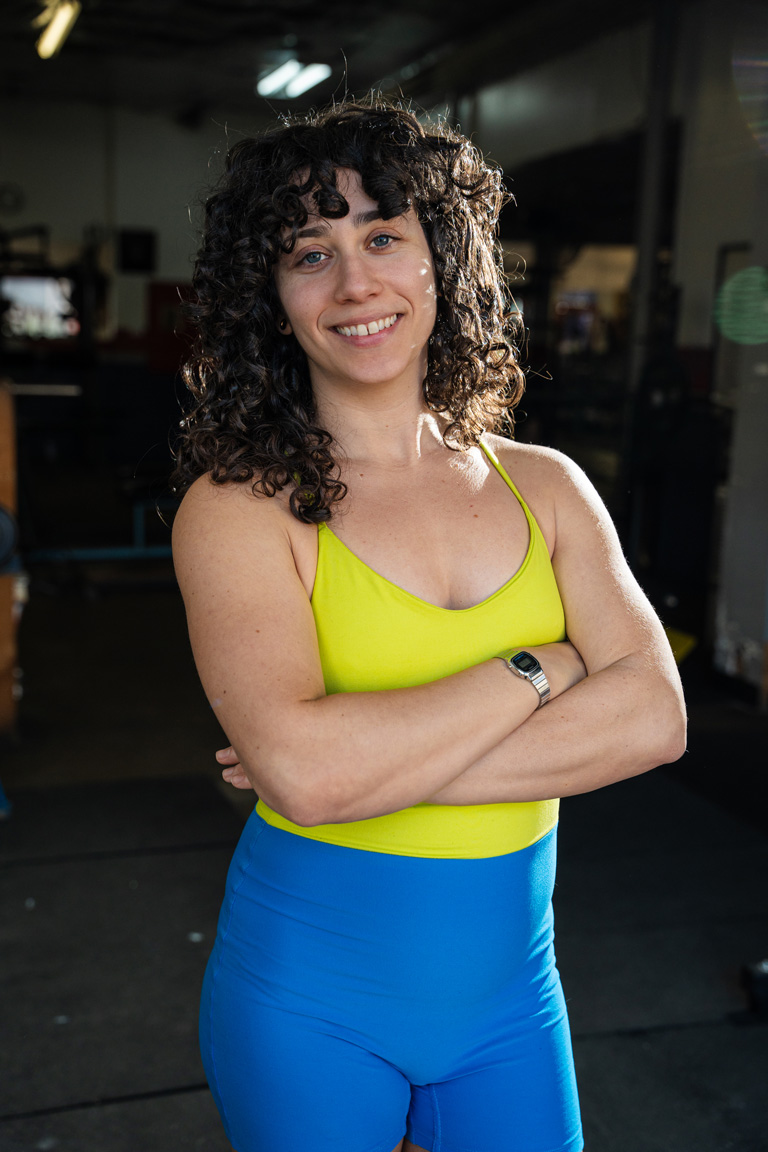
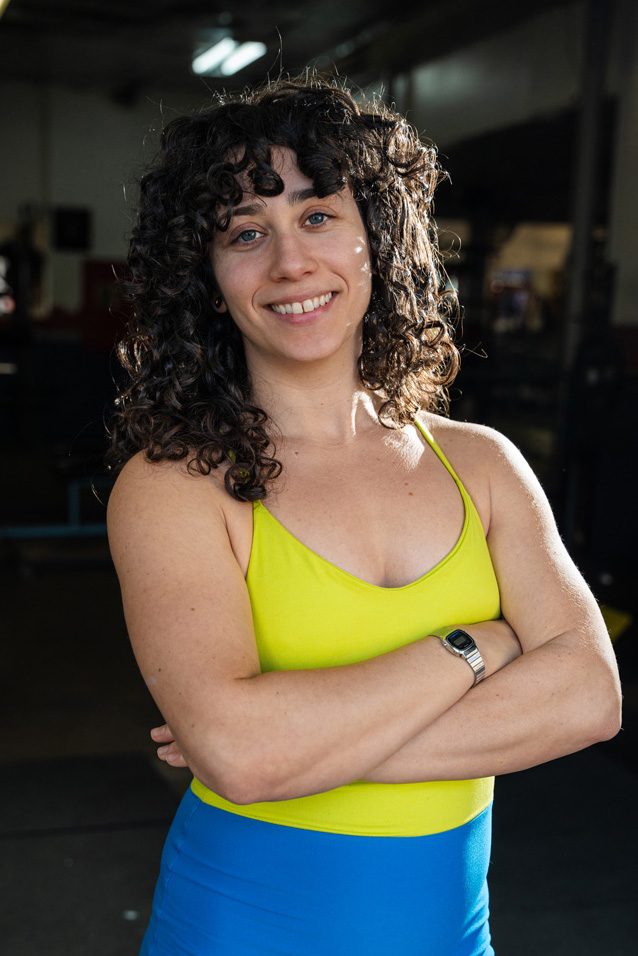
some changes

diff --git a/bigal/src/components/Home.tsx b/bigal/src/components/Home.tsx
@@ -1,16 +1,26 @@
 import { images } from "../assets/optimized_photos";
 import { Button } from "./Button";
-import { Header } from "./Header";
+import { Image } from "./Image";
 
 export const Home = () => {
   return (
-    <main>
-      <Header
-        src1600={images.masonsquat_768}
-        src1200={images.masonsquat_1200}
-        src768={images.masonsquat_768}
-        title="Big Al Strength & Conditioning"
-      />
+    <main className="flex flex-col">
+
+      <div className="flex flex-col justify-center items-center">
+        <h1 className="text-3xl md:text-6xl text-center m-4 mb-6">
+          Big Al Strength & Conditioning
+        </h1>
+        <div className="md:h-96">
+          <Image
+            src1600={images.headshot2_1000}
+            src1200={images.headshot2_1000}
+            src768={images.headshot2_768}
+            className="h-full w-full object-cover"
+            alt="Headshot of Alex"
+          />
+        </div>
+      </div>
+
       <div className="m-4 gap-4 flex flex-col items-center">
         <p>
           are you ready to take your fitness to the next level with in-person
@@ -20,9 +30,10 @@ export const Home = () => {
           are you looking for a way to make working out a part of your
           lifestyle?
         </p>
-
-        <Button />
       </div>
+
+      <Button />
+
     </main>
   );
 };

diff --git a/bigal/src/components/Image.tsx b/bigal/src/components/Image.tsx
@@ -3,14 +3,15 @@ interface ImageProps {
   src1200: string;
   src768: string;
   alt?: string;
+  className?: string;
 }
-export const Image = ({ src1600, src1200, src768, alt = "" }: ImageProps) => {
+export const Image = ({ src1600, src1200, src768, alt = "", className }: ImageProps) => {
   return (
     <picture >
       <source media="(min-width:1600px)" srcSet={src1600} />
       <source media="(min-width:1200px)" srcSet={src1200} />
       <source media="(min-width:768px)" srcSet={src768} />
-     <img className="border" src={new URL(`${src768}`, import.meta.url).href} alt={alt} />
+     <img className={`border ${className || ''}`}  src={new URL(`${src768}`, import.meta.url).href} alt={alt} />
     </picture>
   )
 }

diff --git a/bigal/src/components/Header.tsx b/bigal/src/components/Header.tsx
@@ -12,7 +12,7 @@ export const Header = ({ src1600, src1200, src768, title }: HeaderProps) => {
     <div className="flex flex-col justify-center items-center">
       <h1 className="text-3xl md:text-6xl text-center m-4 mb-6">{title}</h1>
       <div className=" w-full md:max-w-5xl">
-        <Image src1600={`images.${src1600}`} src1200={src1200} src768={src768} />
+        <Image src1600={src1600} src1200={src1200} src768={src768} />
       </div>
     </div>
   );

diff --git a/bigal/src/components/Blog.tsx b/bigal/src/components/Blog.tsx
@@ -1,3 +1,15 @@
+import { Header } from "./Header";
+import { images } from "../assets/optimized_photos";
+
 export const Blog = () => {
-  return <main>blog</main>;
+  return (
+    <main>
+      <Header
+        src1600={images.masonsquat_1600}
+        src1200={images.masonsquat_1200}
+        src768={images.masonsquat_768}
+        title="Blog"
+      />
+    </main>
+  );
 };

diff --git a/bigal/src/components/Button.tsx b/bigal/src/components/Button.tsx
@@ -2,7 +2,7 @@ import { Link } from 'react-router-dom';
 
 export const Button = () => {
   return (
-      <div className="flex justify-center mt-6 md:m-4">
+      <div className="flex justify-center m-4 md:m-4">
         <Link to="/contact"
           className="border solid py-2 px-4 rounded-md text-center w-40 bg-yellow-400 hover:bg-yellow-500"
         >

diff --git a/bigal/src/components/About.tsx b/bigal/src/components/About.tsx
@@ -3,7 +3,7 @@ import { images } from "../assets/optimized_photos";;
 
 export const About = () => {
   return (
-    <main className="p-4 md:p-8 flex flex-col items-center">
+    <main className="flex flex-col items-center">
           <Header
          src1600={images.headshot_1600}
         src1200={images.headshot_1200}

diff --git a/bigal/src/components/Testimonials.tsx b/bigal/src/components/Testimonials.tsx
@@ -4,7 +4,7 @@ import { reviews } from "../assets/reviews.ts";
 
 export const Testimonials = () => {
   return (
-    <main className="p-4 md:p-8">
+    <main>
       <Header
         src1600={images.nikkideadlift_1600}
         src1200={images.nikkideadlift_1200}
